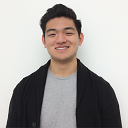
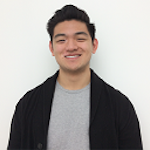
updated website
- recruitment notice
- updated people
- fixed image sizes

diff --git a/people.html b/people.html
@@ -61,7 +61,7 @@
   					<header>
   					  <h5>Professor, Dept. of Biochemistry at The University of Western Ontario</h5>
   					</header>
-					<p>Add description.</p>
+					<p></p>
                     <br>
                     </p>
                     <ul class ="actions">
@@ -80,14 +80,14 @@
 							<i class="fa fa-envelope" aria-hidden="true"></i></a></li>
 							<li><a href="https://github.com/mmacklai" <i class="fa fa-github" aria-hidden="true"></i>
 							</a></li>
-							<li><a href="www.linkedin.com/in/jeanmmacklaim" <i class="fa fa-linkedin" aria-hidden="true"></i>
+							<li><a href="https://www.linkedin.com/in/jeanmmacklaim" <i class="fa fa-linkedin" aria-hidden="true"></i>
 							</a></li>
 						</ul>
                         </header>
                         <header>
                           <h5>Postdoctoral Researcher</h5>
                         </header>
-                        <p>My current project....</p>
+                        <p></p>
                         <br>
                         </p>
                       </div>
@@ -105,40 +105,20 @@
 							  <i class="fa fa-envelope" aria-hidden="true"></i></a></li>
 							  <li><a href="https://github.com/dgiguer" <i class="fa fa-github" aria-hidden="true"></i>
 							  </a></li>
+							  <li><a href="https://www.linkedin.com/in/daniel-giguere-09082214a" <i class="fa fa-linkedin" aria-hidden="true"></i>
+							  </a></li>
 						  </ul>
                         </header>
                         <header>
-                          <h5>MSc. Candidate</h5>
+                          <h5>PhD student</h5>
                         </header>
-                        <p>My current project involves creating an exploratory data visualization app using the ‘Shiny’ R package. The goal of this project is to create a simple graphical user interface allowing users to easily explore omic datasets. The app allows filtering and colouring according to metadata, helping to visually explore multivariate datasets. </p>
+                        <p>I am developing an R package that provides a graphical user interface for exploratory visualization of omic datasets. It is available for download on <a href="https://www.bioconductor.org/packages/release/bioc/html/omicplotR.html">Bioconductor</a>, and tutorials are available on my <a href="https://www.github.com/dgiguer/omicplotr/wiki">Github</a>. Other current projects include using metagenomics to characterize novel bacterial communities, as well as metatranscriptomics to characterize functional interactions within defined communities.
+ 						</p>
                         <br>
                         </p>
                       </div>
                       <span class="image"><img src="images/people/dg2.jpg" alt="" /></span>
                     </div>
-			  <br><hr><br>
-				  <!-- Karisma -->
-				  	<div class="spotlight">
-				  	  <div class = "content">
-				  		<header class = "major">
-				  		  <h2>Karisma Gajudhur</h2>
-						  <ul class="icons">
-							  <li><a href="mailto:kgajudhu@uwo.ca"
-							  <i class="fa fa-envelope" aria-hidden="true"></i></a></li>
-							  <li><a href="https://www.linkedin.com/in/karisma-gajudhur-2b9954b6/" <i class="fa fa-linkedin" aria-hidden="true"></i>
-							  </a></li>
-						  </ul>
-				  		</header>
-				  		<header>
-				  		  <h5>MSc. Candidate</h5>
-				  		</header>
-				  		<p>My project's goal is to benchmark different software packages available for differential abundance testing across diverse high-throughput datasets. Primarily, I work with datasets from in-vitro selection (selex) experiments, subsets of the HMP data, and datasets collected from vaginal microbiome composition analyses.</p>
-				  		<br>
-				  		</p>
-				  	  </div>
-				  	  <span class="image"><img
-						  src="images/people/kg2.JPG" alt="" /></span>
-				  	</div>
 			  <br><hr><br>
                     <!-- Brandon -->
                         <div class="spotlight">
@@ -163,6 +143,53 @@
                           </div>
                           <span class="image"><img src="images/people/bl2.png" alt="" /></span>
                         </div>
+
+					<!-- Ben -->
+						<div class="spotlight">
+						  <div class = "content">
+							<header class = "major">
+							  <h2>Ben Jorris</h2>
+							  <ul class="icons">
+								  <li><a href="mailto:bjoris@uwo.ca"
+								  <i class="fa fa-envelope" aria-hidden="true"></i></a></li>
+								  <li><a href="https://github.com/bjoris33" <i class="fa fa-github" aria-hidden="true"></i>
+								  </a></li>
+								  <li><a href="http://www.linkedin.com/in/ben-joris-9341049b" <i class="fa fa-linkedin" aria-hidden="true"></i>
+								  </a></li>
+							  </ul>
+							</header>
+							<header>
+							  <h5>MSc. Candidate</h5>
+							</header>
+							<p>I am currently developing an R package that is designed to filter error-derived operational taxonomic units (OTUs) from count tables in high-throughput sequencing datasets. Sequencing reads with PCR and sequencing errors can be erroneously identified as separate OTUs with many programs. This package identifies error-dervied OTUs and discards them, reducing the number of false OTUs.</p>
+							<br>
+							</p>
+						  </div>
+						  <span class="image"><img src="images/people/bj2.jpg" alt="" /></span>
+						</div>
+
+						<!-- Kaitlynn -->
+							<div class="spotlight">
+							  <div class = "content">
+								<header class = "major">
+								  <h2>Kaitlyn Hobbs</h2>
+								  <ul class="icons">
+									  <li><a href="mailto:khobbs3@uwo.ca"
+									  <i class="fa fa-envelope" aria-hidden="true"></i></a></li>
+									  <li><a href="http://www.linkedin.com/in/kaitlyn-hobbs-411316102" <i class="fa fa-linkedin" aria-hidden="true"></i>
+									  </a></li>
+								  </ul>
+								</header>
+								<header>
+								  <h5>BMSc. Candidate, thesis student</h5>
+								</header>
+								<p>My project is focused on comparing two different methods used to classify taxonomy for next-generation sequencing reads: deducing amplicon sequence variants (ASVs) and clustering reads into operational taxonomic units (OTUs). I am also applying the ASV-based pipeline to open-access research papers to determine if significant findings can be reproduced using an orthogonal method.</p>
+								<br>
+								</p>
+							  </div>
+							  <span class="image"><img src="images/people/kh2.jpg" alt="" /></span>
+							</div>
+					</section>
 					</section>
 
 	                <!-- Alumni -->
@@ -173,6 +200,9 @@
 						<hr>
 						</div>
 						<p>
+							<h3>Karisma Gajudhur</h3>
+							<p>PhD student, Trent University</p>
+							<br>
 							<h3>Ruth Grace Wong</h3>
 							<p>Engineer at Pinterest</p>
 							<br>

diff --git a/index.html b/index.html
@@ -46,6 +46,24 @@
 				<!-- Main -->
 					<div id="main">
 
+						<!-- News -->
+						<section id="news" class="main">
+							<div class="spotlight">
+								<div class="content">
+									<header class="major">
+										<h2>We are recruiting!</h2>
+									</header>
+									<p>	We are currently looking for a PhD student to join our lab! Projects are available relating to computational biology, metagenomics, and metatranscriptomics.
+									<br>
+									</p>
+									<ul class="actions">
+									<li><a href="mailto:ggloor@uwo.ca" class="button">Click here to inquire</a></li>
+								</div>
+							</div>
+						</section>
+
+
+
 						<!-- Introduction -->
 							<section id="research" class="main">
 								<div class="spotlight">
@@ -80,19 +98,24 @@
 										<p>Postdoctoral Researcher</p>
 									</li>
 									<li>
-										<span class="image"><img src = "images/bl.png" alt = "" /></span>
-										<h3>Brandon Lieng</h3>
-										<p>Undergraduate student</p>
-									</li>
-									<li>
-										<span class="image"><img src = "images/kg.JPG" alt = "" /></span>
-										<h3>Karisma Gajudhur</h3>
-										<p>Graduate student</p>
-									</li>
-									<li>
 										<span class="image"><img src = "images/dg.jpg" alt = "" /></span>
 										<h3>Daniel Giguere</h3>
 										<p>Graduate student</p>
+									</li>
+									<li>
+										<span class="image"><img src = "images/bj.jpg" alt = "" /></span>
+										<h3>Ben Joris</h3>
+										<p>Graduate student</p>
+									</li>
+									<li>
+										<span class="image"><img src = "images/kh.jpg" alt = "" /></span>
+										<h3>Kaitlyn Hobbs</h3>
+										<p>Undergraduate student</p>
+									</li>
+									<li>
+										<span class="image"><img src = "images/bl.png" alt = "" /></span>
+										<h3>Ben Joris</h3>
+										<p>Undergraduate student</p>
 									</li>
 								</ul>
 								<footer class="major">
